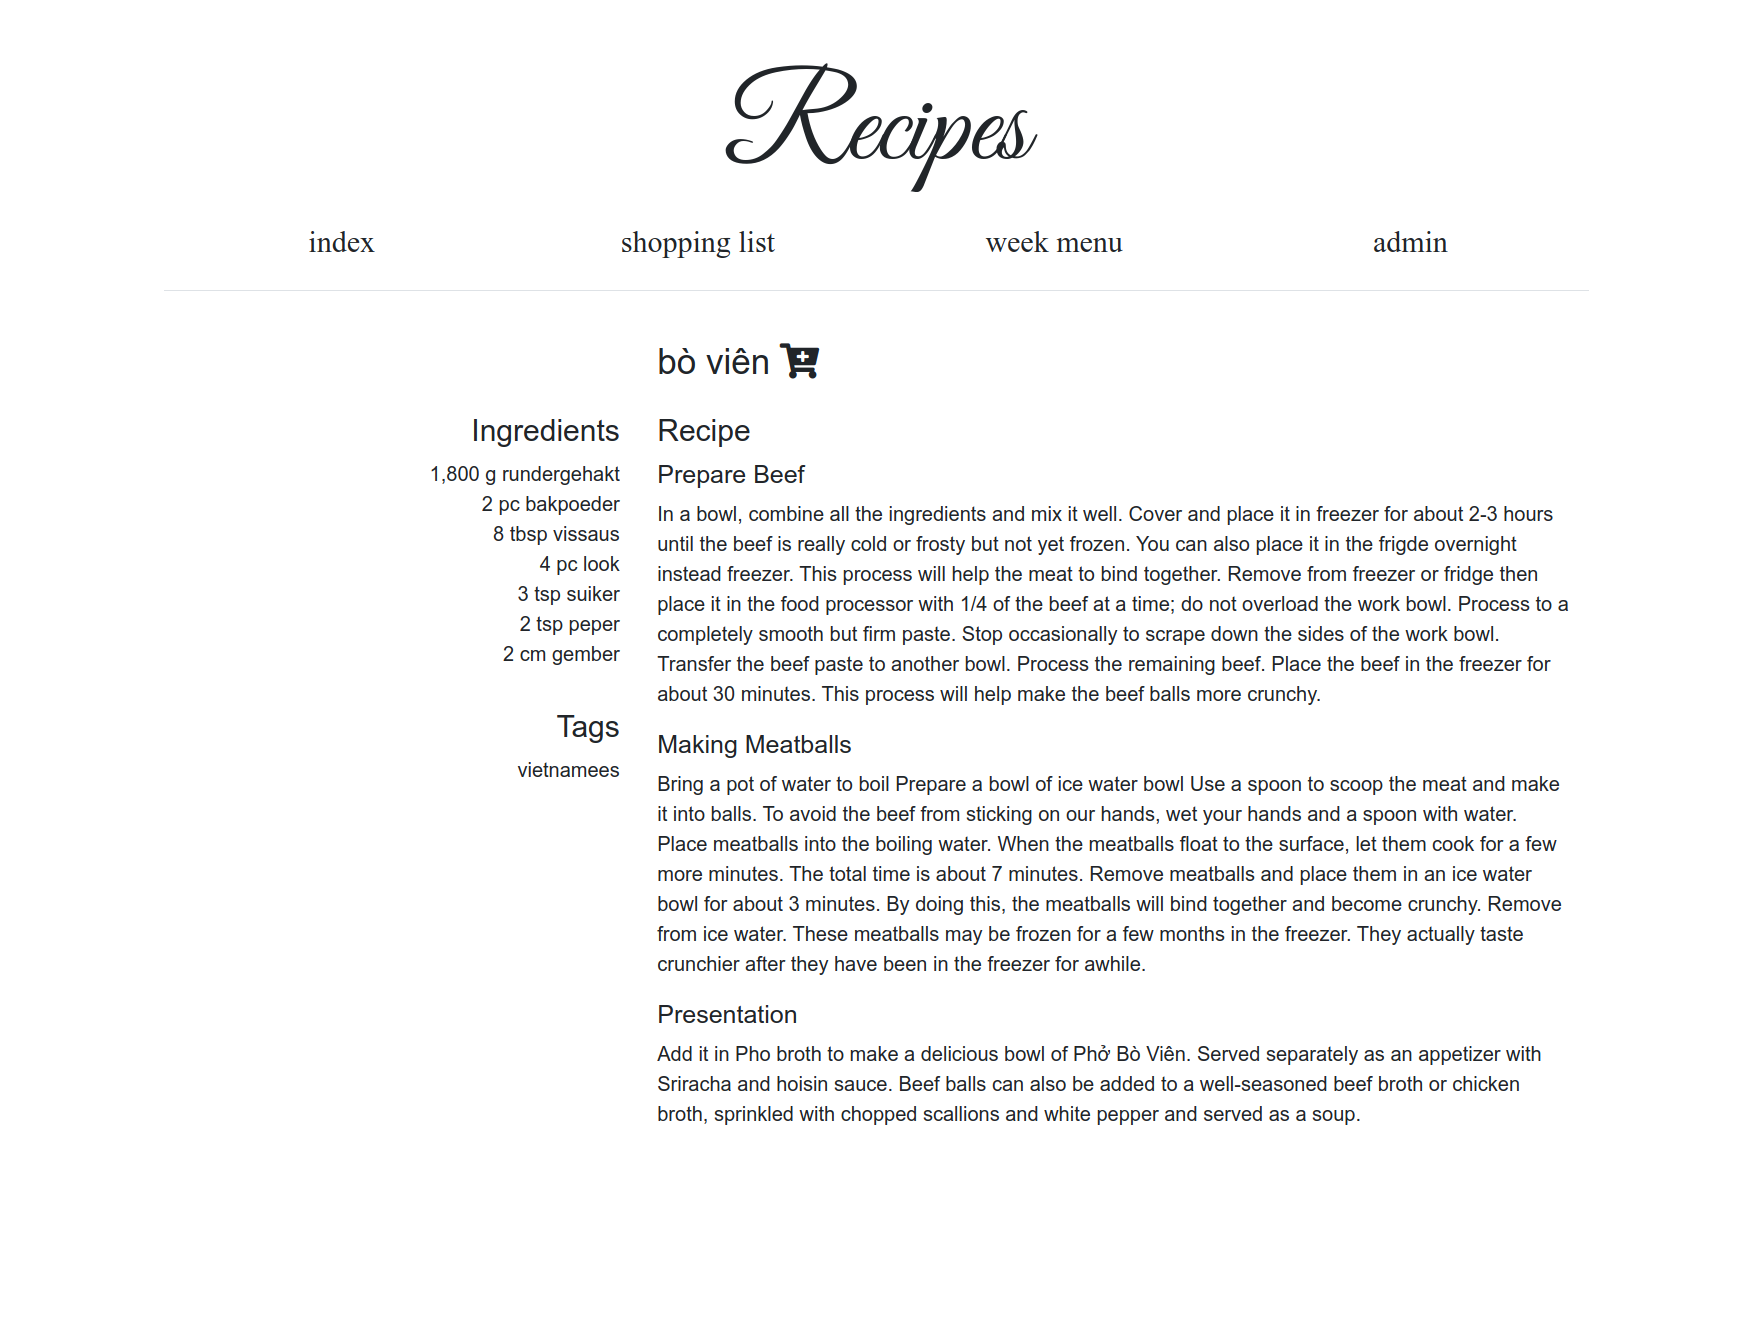
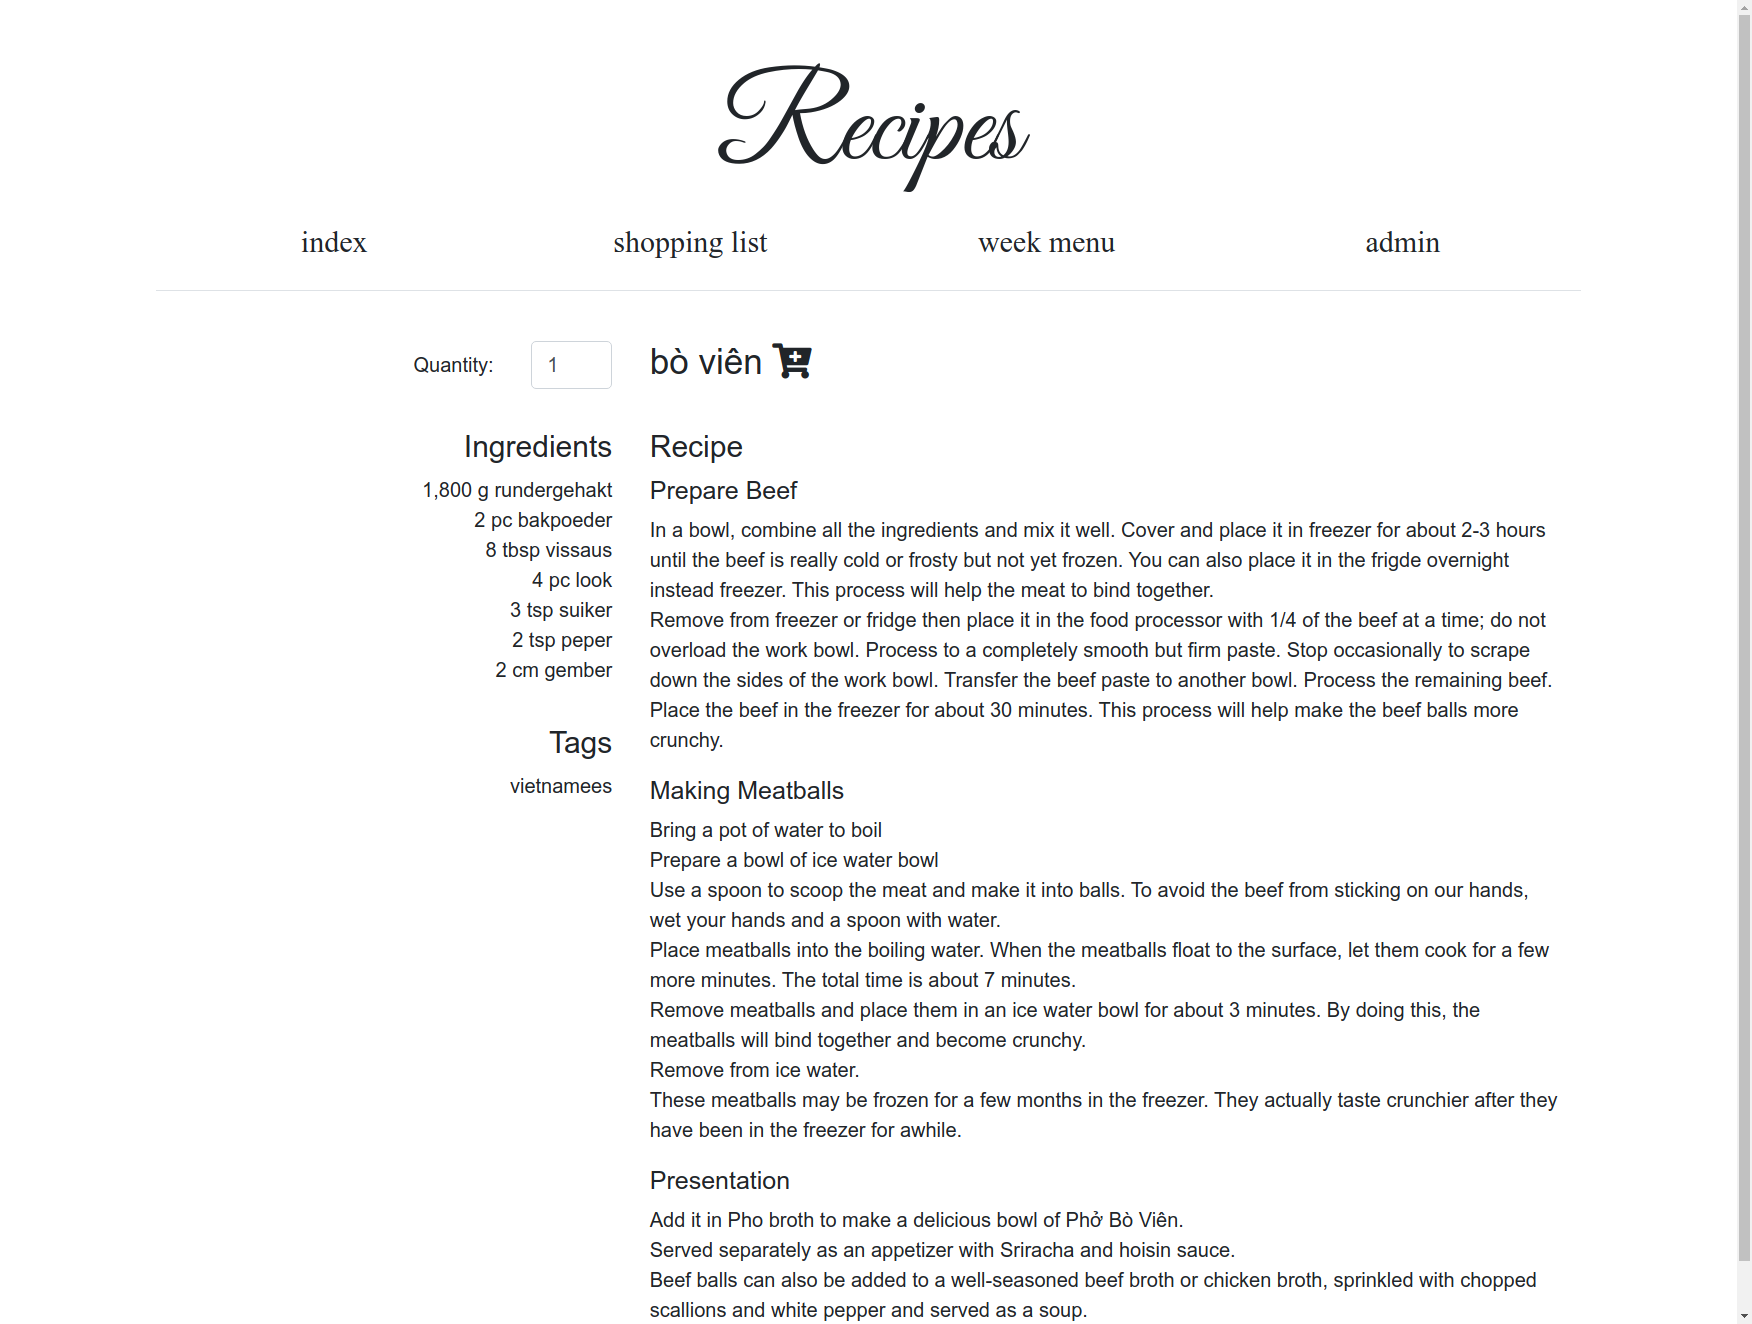
add qty multiplication to recipe page; add anchor to menu days

diff --git a/recipes/templates/menu.html b/recipes/templates/menu.html
@@ -58,17 +58,20 @@
                  draggable="true"
                  pk="{{ dish.0 }}"
                  dish="{{ dish.1 }}"
+                 qty="{{ dish.2 }}"
                  source="dishes"></i>
               {% if dish.0 == '' %}
-              {{ dish.1 }}
+              {{ dish.1 }} {% if dish.2 != '1' %}({{ dish.2 }}){% endif %}
               {% else %}
-              <a href="{% url 'recipe' dish.0 %}" class="text-body">
-                {{ dish.1 }}
+              <a href="{% url 'recipe-qty' dish.0 dish.2 %}" class="text-body">
+                {{ dish.1 }} {% if dish.2 != '1' %}({{ dish.2 }}){% endif %}
               </a>
               {% endif %}
               <button type="submit" class="btn" style="padding: 0;">
                 <i class="far fa-trash-alt text-body hyperlink"
-                   onclick="delFromDishes('{{ dish.0 }}', '{{ dish.1 }}');"></i>
+                   onclick="delFromDishes('{{ dish.0 }}',
+                                          '{{ dish.1 }}',
+                                          '{{ dish.2 }}');"></i>
               </button>
               <br>
               {% endfor %}
@@ -83,6 +86,7 @@
                 {% csrf_token %}
                 <input type="hidden" name="pk" value="">
                 <input type="text" name="dish" class="form-control" size="40">
+                <input type="hidden" name="qty" value="1">
                 <button type="submit" class="btn">
                   <i class="far fa-plus-square text-body"></i>
                 </button>
@@ -98,6 +102,7 @@
             </div>
           </div>
           {% for day in days %}
+          <a name="{{ day }}"></a>
           <div class="p-2
                       {% if day == day_of_week and week == current_week %}
                       border border-dark
@@ -141,12 +146,14 @@
                    draggable="true"
                    pk="{{ dish.0 }}"
                    dish="{{ dish.1 }}"
+                   qty="{{ dish.2 }}"
                    source="{{ day|lower }}_{{ meal }}"></i>
                 {% if dish.0 == '' %}
-                {{ dish.1 }}
+                {{ dish.1 }} {% if dish.2 != '1' %}({{ dish.2 }}){% endif %}
                 {% else %}
-                <a href="{% url 'recipe' dish.0 %}" class="text-body">
-                  {{ dish.1 }}
+                <a href="{% url 'recipe-qty' dish.0 dish.2 %}"
+                   class="text-body">
+                  {{ dish.1 }} {% if dish.2 != '1' %}({{ dish.2 }}){% endif %}
                 </a>
                 {% endif %}
                 <button type="submit" class="btn" style="padding: 0;">
@@ -155,7 +162,8 @@
                                   '{{ day|lower }}',
                                   '{{ meal }}',
                                   '{{ dish.0 }}',
-                                  '{{ dish.1 }}');">
+                                  '{{ dish.1 }}',
+                                  '{{ dish.2 }}');">
                   </i>
                 </button>
                 <br>
@@ -188,21 +196,25 @@
         function dragStart(ev) {
             let pk = $(ev.target).attr('pk');
             let dish = $(ev.target).attr('dish');
+            let qty = $(ev.target).attr('qty');
             let source = $(ev.target).attr('source');
             ev.dataTransfer.setData('pk', pk);
             ev.dataTransfer.setData('dish', dish);
+            ev.dataTransfer.setData('qty', qty);
             ev.dataTransfer.setData('source', source);
         }
 
         function dragDropDishes(ev) {
             let pk = ev.dataTransfer.getData('pk');
             let dish = ev.dataTransfer.getData('dish');
+            let qty = ev.dataTransfer.getData('qty');
             let source = ev.dataTransfer.getData('source');
             $.post('{% url 'add_to_dishes' %}',
                    {
                        csrfmiddlewaretoken: csrftoken,
                        pk: pk,
                        dish: dish,
+                       qty: qty,
                        source: '{{ year|unlocalize }}_{{ week }}_' + source
                    },
                    function(data, textStatus, jqXHR) { location.reload(); });
@@ -211,6 +223,7 @@
         function dragDropMenu(ev) {
             let pk = ev.dataTransfer.getData('pk');
             let dish = ev.dataTransfer.getData('dish');
+            let qty = ev.dataTransfer.getData('qty');
             let source = ev.dataTransfer.getData('source');
             let day = $(ev.target).attr('day');
             let meal = $(ev.target).attr('meal');
@@ -219,25 +232,32 @@
                        csrfmiddlewaretoken: csrftoken,
                        pk: pk,
                        dish: dish,
+                       qty: qty,
                        source: source
                    },
                    function(data, textStatus, jqXHR) { location.reload(); });
         }
 
-        function delFromDishes(pk, dish) {
+        function delFromDishes(pk, dish, qty) {
             $.post('{% url 'del_from_dishes' %}',
-                   {csrfmiddlewaretoken: csrftoken, pk: pk, dish: dish},
+                   {
+                       csrfmiddlewaretoken: csrftoken,
+                       pk: pk,
+                       dish: dish,
+                       qty: qty
+                   },
                    function(data, textStatus, jqXHR) { location.reload(); });
         }
 
-        function delFromMenu(day, meal, pk, dish) {
+        function delFromMenu(day, meal, pk, dish, qty) {
             $.post('{% url 'menu' year week %}' + day + '/' + meal + '/del/',
                    {
                        csrfmiddlewaretoken: csrftoken,
                        day: day,
                        meal: meal,
                        pk: pk,
-                       dish: dish
+                       dish: dish,
+                       qty: qty
                    },
                    function(data, textStatus, jqXHR) { location.reload(); });
         }

diff --git a/recipes/templates/recipe.html b/recipes/templates/recipe.html
@@ -4,6 +4,19 @@
 
 {% block content %}
       <div class="row pt-4 justify-content-end">
+        <div class="col col-4">
+          <div class="form-group row text-right">
+            <label class="col-sm-9 col-form-label">Quantity:</label>
+            <div class="col-sm-3">
+              <input class="form-control"
+                     value="{{ qty }}"
+                     type="number"
+                     step="0.5"
+                     min="0"
+                     onchange="changeQty($(this).val());">
+            </div>
+          </div>
+        </div>
         <div class="col col-8">
           <h3>
             {{ recipe.title }}
@@ -56,4 +69,9 @@
           {{ recipe.recipe | safe_markdown }}
         </div>
       </div>
+      <script>
+        function changeQty(qty) {
+            window.location.href = '{% url 'recipe' recipe.pk %}' + qty;
+        }
+      </script>
 {% endblock %}

diff --git a/recipes/views.py b/recipes/views.py
@@ -119,11 +119,19 @@ def tag(request, pk):
 
 
 def recipe(request, pk):
+    return redirect(reverse('recipe-qty', args=[pk, 1]))
+
+
+def recipe_qty(request, pk, qty):
     recipe = Recipe.objects.get(pk=pk)
+    ingredient_units = recipe.ingredientinrecipe_set.all()
+    for ingredient_unit in ingredient_units:
+        ingredient_unit.amount *= Decimal(qty)
     return render(request, 'recipe.html', context={
         'page': 'recipe',
         'recipe': recipe,
-        'ingredient_units': recipe.ingredientinrecipe_set.all(),
+        'qty': qty,
+        'ingredient_units': ingredient_units,
     })
 
 
@@ -224,7 +232,7 @@ def cart(request):
         if not error:
             dishes = Dishes.objects.get_or_create()[0]
             for recipe, qty in recipes:
-                dishes.add(recipe.pk, f'{recipe} ({qty})')
+                dishes.add(recipe.pk, f'{recipe}', qty)
                 recipe.popularity += 1
                 recipe.save()
             dishes.save()
@@ -352,50 +360,55 @@ def add_to_ourgroceries(ingredient_units, selected):
 def menu_today(request):
     today = date.today()
     return redirect(
-        reverse('menu', args=[today.year, int(today.strftime('%V'))]))
+        reverse('menu', args=[today.year, int(today.strftime('%V'))]) +
+        f'#{DAYS_OF_THE_WEEK[today.weekday()]}')
 
 
 def add_to_dishes(request):
     pk = request.POST['pk']
     dish = request.POST['dish']
+    qty = request.POST['qty']
     source = request.POST.get('source')
     if source is not None:
         year, week, day, meal = source.split('_')
         menu = Menu.objects.get(year=year, week=week)
-        menu.remove(day, meal, pk, dish)
+        menu.remove(day, meal, pk, dish, qty)
     dishes = Dishes.objects.get_or_create()[0]
-    dishes.add(pk, dish)
+    dishes.add(pk, dish, qty)
     return HttpResponseRedirect(request.META.get('HTTP_REFERER'))
 
 
 def del_from_dishes(request):
     pk = request.POST['pk']
     dish = request.POST['dish']
+    qty = request.POST['qty']
     dishes = Dishes.objects.get_or_create()[0]
-    dishes.remove(pk, dish)
+    dishes.remove(pk, dish, qty)
     return HttpResponseRedirect(request.META.get('HTTP_REFERER'))
 
 
 def add_to_menu(request, year, week, day, meal):
     pk = request.POST['pk']
     dish = request.POST['dish']
+    qty = request.POST['qty']
     source = request.POST['source']
     menu = Menu.objects.get_or_create(year=year, week=week)[0]
-    menu.add(day, meal, pk, dish)
+    menu.add(day, meal, pk, dish, qty)
     if source == 'dishes':
         dishes = Dishes.objects.get_or_create()[0]
-        dishes.remove(pk, dish)
+        dishes.remove(pk, dish, qty)
     else:
         day, meal = source.split('_')
-        menu.remove(day, meal, pk, dish)
+        menu.remove(day, meal, pk, dish, qty)
     return HttpResponseRedirect(request.META.get('HTTP_REFERER'))
 
 
 def del_from_menu(request, year, week, day, meal):
     pk = request.POST['pk']
     dish = request.POST['dish']
+    qty = request.POST['qty']
     menu = Menu.objects.get_or_create(year=year, week=week)[0]
-    menu.remove(day, meal, pk, dish)
+    menu.remove(day, meal, pk, dish, qty)
     return HttpResponseRedirect(request.META.get('HTTP_REFERER'))
 
 

diff --git a/recipes/models.py b/recipes/models.py
@@ -429,21 +429,22 @@ class Dishes(models.Model):
         self._load_list()
 
     def _load_list(self):
-        self.list = [tuple(line.split(',', 1))
+        self.list = [tuple(line.split(',', 2))
                      for line in self.dishes.split('\n')
                      if line]
 
     def _save_list(self):
-        self.dishes = '\n'.join([f'{pk},{dish}' for (pk, dish) in self.list])
+        self.dishes = '\n'.join([f'{pk},{dish},{qty}'
+                                 for (pk, dish, qty) in self.list])
         self.save()
 
-    def add(self, pk, dish):
-        self.list.append((pk, dish))
+    def add(self, pk, dish, qty):
+        self.list.append((pk, dish, qty))
         self._save_list()
 
-    def remove(self, pk, dish):
+    def remove(self, pk, dish, qty):
         try:
-            self.list.remove((pk, dish))
+            self.list.remove((pk, dish, qty))
         except ValueError:
             pass
         else:
@@ -493,24 +494,25 @@ class Menu(models.Model):
 
     def list(self, day, meal):
         dishes = getattr(self, f'{day}_{meal}_dishes')
-        return [tuple(line.split(',', 1))
+        return [tuple(line.split(',', 2))
                 for line in dishes.split('\n')
                 if line]
 
     def _save_list(self, day, meal, dish_list):
-        dishes = '\n'.join([f'{pk},{dish}' for (pk, dish) in dish_list])
+        dishes = '\n'.join([f'{pk},{dish},{qty}'
+                            for (pk, dish, qty) in dish_list])
         setattr(self, f'{day}_{meal}_dishes', dishes)
         self.save()
 
-    def add(self, day, meal, pk, dish):
+    def add(self, day, meal, pk, dish, qty):
         dish_list = self.list(day, meal)
-        dish_list.append((pk, dish))
+        dish_list.append((pk, dish, qty))
         self._save_list(day, meal, dish_list)
 
-    def remove(self, day, meal, pk, dish):
+    def remove(self, day, meal, pk, dish, qty):
         dish_list = self.list(day, meal)
         try:
-            dish_list.remove((pk, dish))
+            dish_list.remove((pk, dish, qty))
         except ValueError:
             pass
         else:

diff --git a/recipes/migrations/0027_menu_dishes_with_qty.py b/recipes/migrations/0027_menu_dishes_with_qty.py
@@ -1,0 +1,48 @@
+import re
+
+from django.db import migrations
+
+
+RE_QTY = r'(\d*,.*) \((\d+\.?\d*)\)'
+
+
+def extract_qty(line):
+    try:
+        return ','.join(re.match(RE_QTY, line).groups())
+    except AttributeError:
+        return f'{line},1'
+
+
+def menu_dishes_with_qty(apps, schema_editor):
+    Dishes = apps.get_model('recipes', 'Dishes')
+    Menu = apps.get_model('recipes', 'Menu')
+
+    try:
+        dishes = Dishes.objects.get()
+        lines = []
+        for line in dishes.dishes.split('\n'):
+            if line.strip():
+                lines.append(extract_qty(line))
+        dishes.dishes = '\n'.join(lines)
+        dishes.save()
+    except Dishes.DoesNotExist:
+        pass
+
+    for menu in Menu.objects.all():
+        for day in ['monday', 'tuesday', 'wednesday', 'thursday',
+                    'friday', 'saturday', 'sunday']:
+            for meal in ['lunch', 'dinner']:
+                dishes = getattr(menu, f'{day}_{meal}_dishes')
+                lines = []
+                for line in dishes.split('\n'):
+                    if line.strip():
+                        lines.append(extract_qty(line))
+                setattr(menu, f'{day}_{meal}_dishes', '\n'.join(lines))
+        menu.save()
+
+
+class Migration(migrations.Migration):
+
+    dependencies = [('recipes', '0026_rename_primary_unit')]
+
+    operations = [migrations.RunPython(menu_dishes_with_qty)]

diff --git a/recipes/urls.py b/recipes/urls.py
@@ -21,6 +21,7 @@ urlpatterns += i18n_patterns(
     path('', views.index, name='index'),
     path('tag/<int:pk>/', views.tag, name='tag'),
     path('recipe/<int:pk>/', views.recipe, name='recipe'),
+    path('recipe/<int:pk>/<str:qty>', views.recipe_qty, name='recipe-qty'),
     path('cart/', views.cart, name='cart'),
     path('cart/add/<str:pk>/', views.add_to_cart, name='add_to_cart'),
     path('cart/del/<str:pk>/', views.del_from_cart, name='del_from_cart'),

diff --git a/CHANGELOG.md b/CHANGELOG.md
@@ -6,6 +6,8 @@
 * Change primary_unit to shopping_unit
 * Add use_in_recipe to ingredient unit
 * Prefill factor for known ingredient units
+* Add qty multiplication to recipe page
+* Add anchor to menu days
 
 4.0.1
 =====
